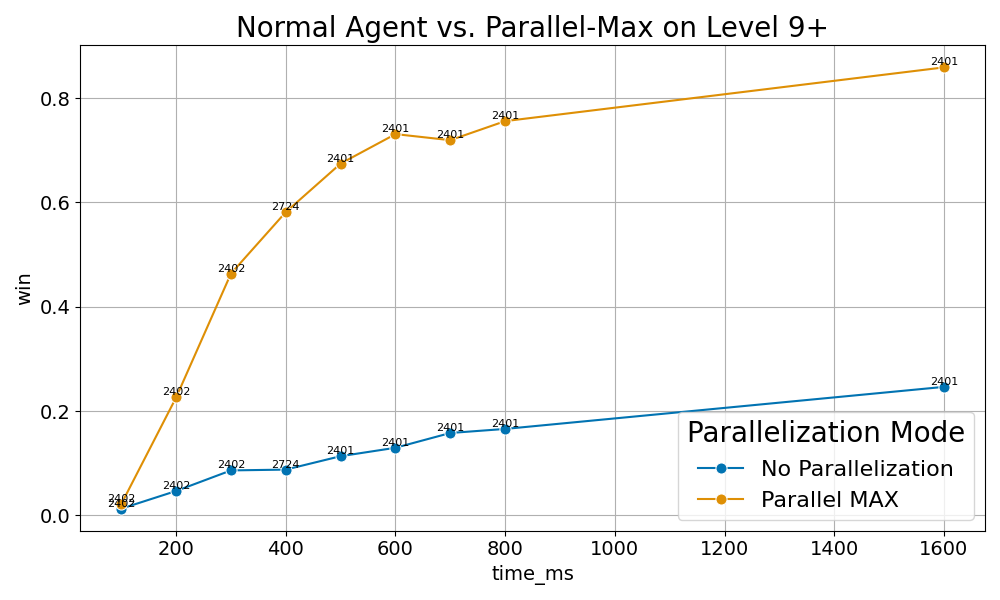
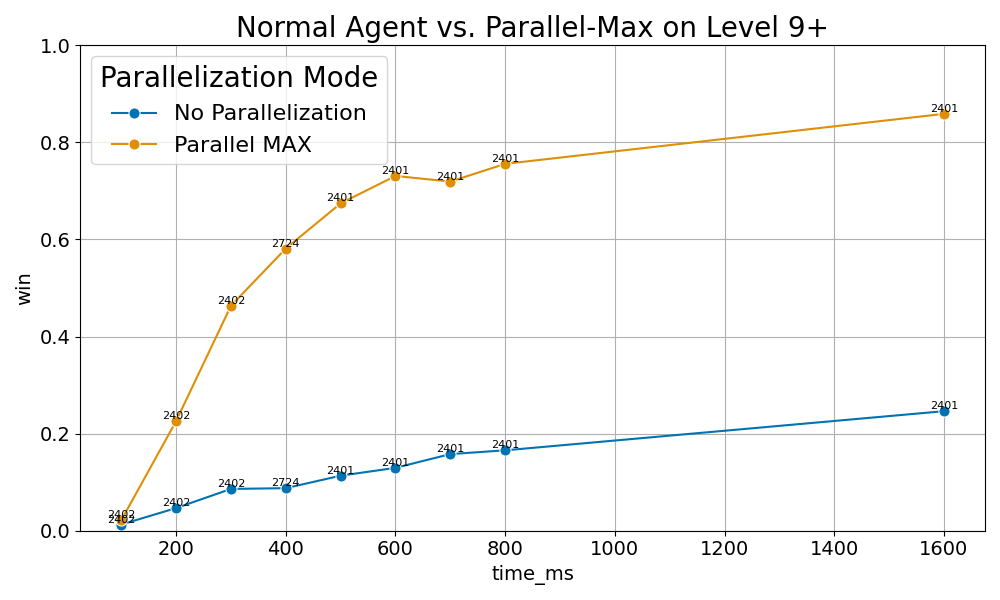
More Graphs

diff --git a/game_ai/create_graphs.py b/game_ai/create_graphs.py
@@ -47,7 +47,7 @@ plant_to_name = (
 
 to_legend = {
     "heuristic_mode": {mcts.NO_HEURISTIC: "No Heuristic", mcts.HEURISTIC_SELECT: "Selection Heuristic"},
-    "selection_mode": {mcts.FULL_EXPAND: "Full Expand", mcts.SQUARE_RATIO: "Square Ratio"},
+    "selection_mode": {mcts.FULL_EXPAND: "Full Expand (Normal)", mcts.SQUARE_RATIO: "Square Ratio"},
     "loss_heuristic": {
         mcts.NO_HEURISTIC: "No Heuristic",
         mcts.FRAME_HEURISTIC: "Frame Heuristic",
@@ -150,6 +150,7 @@ def filter_and_plot_pvz_data(
     expansion_modes_filter=None,
     # Different graphs by the value below
     group_graphs_by="level",
+    ylim=(0, 1),
     # Legend tuning...
     hue_order=None,
     legend_location="upper left",
@@ -236,6 +237,9 @@ def filter_and_plot_pvz_data(
     # Set to log scale if need be
     if log_scale:
         plt.xscale("log")
+
+    if y_axis == "win" and ylim:
+        plt.ylim(ylim)
 
     # Save the plot
     plt.tight_layout()
@@ -434,6 +438,7 @@ filter_and_plot_pvz_data(
     x_axis="time_ms",
     y_axis="win",
     group_graphs_by="ucb_const",
+    ylim=(0, 0.5),  # <----
 )
 
 
@@ -503,7 +508,7 @@ filter_and_plot_pvz_data(
     title="Normal Agent vs. Parallel-Max on Level 9+",
     file_name="6.1.1.2_level_9+_normal_vs_parallel_max",
     level=["9+"],
-    time_ms_filter={"max": 1600},  # <--
+    time_ms_filter={"max": 1600},
     ucb_filter=[0.004],
     threads_filter=[8],  # <----
     heuristic_modes_filter=[mcts.NO_HEURISTIC],
@@ -513,7 +518,7 @@ filter_and_plot_pvz_data(
     x_axis="time_ms",
     y_axis="win",
     group_graphs_by="rollout_mode",
-    legend_location="lower right",
+    legend_location="upper left",
 )
 
 # 6.1.1.2 ++
@@ -522,7 +527,7 @@ filter_and_plot_pvz_data(
     title="Varying Threads Parallel-Max on Level 9+",
     file_name="6.1.1.2_level_9+_parallel_max_threads",
     level=["9+"],
-    time_ms_filter={"max": 1600},  # <--
+    time_ms_filter={"max": 1600},
     ucb_filter=[0.004],
     threads_filter=None,
     heuristic_modes_filter=[mcts.NO_HEURISTIC],
@@ -533,6 +538,168 @@ filter_and_plot_pvz_data(
     y_axis="win",
     group_graphs_by="threads",
     legend_location="lower right",
+)
+
+
+# 6.1.1.3
+filter_and_plot_pvz_data(
+    CSV_FILENAME,
+    title="Normal Agent vs. Parallel-Max on Level 9++",
+    file_name="6.1.1.3_level_9++_normal_vs_parallel_max",
+    level=["9++"],
+    time_ms_filter={"max": 1600},  # <--
+    ucb_filter=[0.004],
+    threads_filter=[8],  # <----
+    heuristic_modes_filter=[mcts.NO_HEURISTIC],
+    selection_modes_filter=[mcts.FULL_EXPAND],
+    loss_heuristics_filter=[mcts.NO_HEURISTIC],
+    expansion_modes_filter=[mcts.NORMAL_MCTS, mcts.MAX_NODE],
+    x_axis="time_ms",
+    y_axis="win",
+    group_graphs_by="rollout_mode",
+    legend_location="upper left",
+)
+
+# 6.1.2.1
+filter_and_plot_pvz_data(
+    CSV_FILENAME,
+    title="Normal Agent vs. Parallel-Max vs. Parallel-Trees on Level 9",
+    file_name="6.1.2.1_level_9_parallelizations",
+    level=["9"],
+    time_ms_filter={"max": 1600},  # <--
+    ucb_filter=[0.004],
+    threads_filter=[8],  # <----
+    heuristic_modes_filter=[mcts.NO_HEURISTIC],
+    selection_modes_filter=[mcts.FULL_EXPAND],
+    loss_heuristics_filter=[mcts.NO_HEURISTIC],
+    expansion_modes_filter=[mcts.NORMAL_MCTS, mcts.MAX_NODE, mcts.PARALLEL_TREES],
+    x_axis="time_ms",
+    y_axis="win",
+    group_graphs_by="rollout_mode",
+    legend_location="lower right",
+    ylim=(0, 1.02),  # Emphasis on 100%
+)
+
+
+# 6.1.2.2
+filter_and_plot_pvz_data(
+    CSV_FILENAME,
+    title="Normal Agent vs. Parallel-Max vs. Parallel-Trees on Level 9+",
+    file_name="6.1.2.2_level_9+_parallelizations",
+    level=["9+"],
+    time_ms_filter={"max": 1600},  # <--
+    ucb_filter=[0.004],
+    threads_filter=[8],
+    heuristic_modes_filter=[mcts.NO_HEURISTIC],
+    selection_modes_filter=[mcts.FULL_EXPAND],
+    loss_heuristics_filter=[mcts.NO_HEURISTIC],
+    expansion_modes_filter=[mcts.NORMAL_MCTS, mcts.MAX_NODE, mcts.PARALLEL_TREES],
+    x_axis="time_ms",
+    y_axis="win",
+    group_graphs_by="rollout_mode",
+    legend_location="center right",
+)
+
+
+# 6.1.2.3
+filter_and_plot_pvz_data(
+    CSV_FILENAME,
+    title="Normal Agent vs. Parallel-Max vs. Parallel-Trees on Level 9++",
+    file_name="6.1.2.3_level_9++_parallelizations",
+    level=["9++"],
+    time_ms_filter={"max": 1600},  # <--
+    ucb_filter=[0.004],
+    threads_filter=[8],
+    heuristic_modes_filter=[mcts.NO_HEURISTIC],
+    selection_modes_filter=[mcts.FULL_EXPAND],
+    loss_heuristics_filter=[mcts.NO_HEURISTIC],
+    expansion_modes_filter=[mcts.NORMAL_MCTS, mcts.MAX_NODE, mcts.PARALLEL_TREES],
+    x_axis="time_ms",
+    y_axis="win",
+    group_graphs_by="rollout_mode",
+    legend_location="upper left",
+)
+
+
+# 6.1.3
+filter_and_plot_pvz_data(
+    CSV_FILENAME,
+    title="Parallel Trees With Alternative Selection Policy on Level 9++",
+    file_name="6.1.3_level_9++_selection",
+    level=["9++"],
+    time_ms_filter={"max": 1600},  # <--
+    ucb_filter=[0.004],
+    threads_filter=None,
+    heuristic_modes_filter=[mcts.NO_HEURISTIC],
+    selection_modes_filter=[mcts.FULL_EXPAND, mcts.SQUARE_RATIO],
+    loss_heuristics_filter=[mcts.NO_HEURISTIC],
+    expansion_modes_filter=[mcts.PARALLEL_TREES],
+    x_axis="time_ms",
+    y_axis="win",
+    group_graphs_by="selection_mode",
+    legend_location="upper left",
+)
+
+
+# 6.2.1
+filter_and_plot_pvz_data(
+    CSV_FILENAME,
+    title="Normal Algent With Selection Heuristic (Tie-Breaker) on Level 9+",
+    file_name="6.2.1_level_9+_selection_heuristic",
+    level=["9+"],
+    time_ms_filter={"max": 1600},  # <--
+    ucb_filter=[0.004],
+    threads_filter=None,
+    heuristic_modes_filter=[mcts.NO_HEURISTIC, mcts.HEURISTIC_SELECT],
+    selection_modes_filter=[mcts.FULL_EXPAND],
+    loss_heuristics_filter=[mcts.NO_HEURISTIC],
+    expansion_modes_filter=[mcts.NORMAL_MCTS],
+    x_axis="time_ms",
+    y_axis="win",
+    group_graphs_by="heuristic_mode",
+    legend_location="upper left",
+)
+
+
+# 6.2.2.2
+filter_and_plot_pvz_data(
+    CSV_FILENAME,
+    title="Normal Algent With Loss Heuristic on Level 9+",
+    file_name="6.2.2.2_level_9+_loss_heuristic",
+    level=["9+"],
+    time_ms_filter={"max": 1600},  # <--
+    ucb_filter=[0.004],
+    threads_filter=None,
+    heuristic_modes_filter=[mcts.NO_HEURISTIC],
+    selection_modes_filter=[mcts.FULL_EXPAND],
+    loss_heuristics_filter=[mcts.NO_HEURISTIC, mcts.TOTAL_PLANT_COST_HEURISTIC],
+    expansion_modes_filter=[mcts.NORMAL_MCTS],
+    x_axis="time_ms",
+    y_axis="win",
+    group_graphs_by="loss_heuristic",
+    legend_location="upper left",
+    ylim=(0, 0.5),
+)
+
+
+# 6.2.2.2 +
+filter_and_plot_pvz_data(
+    CSV_FILENAME,
+    title="Normal Algent With Loss Heuristic on Level 9+",
+    file_name="6.2.2.2_level_9+_loss_heuristic2",
+    level=["9+"],
+    time_ms_filter={"max": 1600},  # <--
+    ucb_filter=[0.004],
+    threads_filter=None,
+    heuristic_modes_filter=[mcts.NO_HEURISTIC],
+    selection_modes_filter=[mcts.FULL_EXPAND],
+    loss_heuristics_filter=None,
+    expansion_modes_filter=[mcts.NORMAL_MCTS],
+    x_axis="time_ms",
+    y_axis="win",
+    group_graphs_by="loss_heuristic",
+    legend_location="upper left",
+    ylim=(0, 0.5),
 )
 
 
